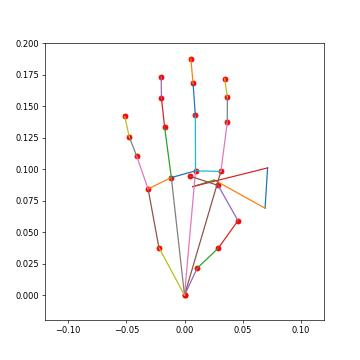
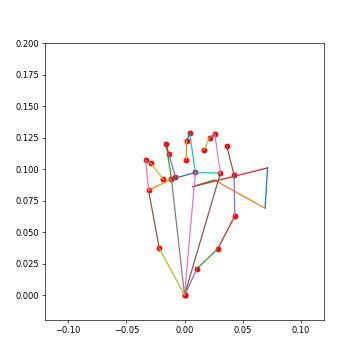
chore: 개발 및 테스트 유틸리티 추가
mock_quest.py: Meta Quest 없이 ZMQ keypoint 스트리밍 시뮬레이션
debug_pipeline.py: 전체 텔레오퍼레이션 파이프라인 단일 프로세스 디버그 스크립트
.gitignore: open_teach.egg-info 추가

diff --git a/debug_pipeline.py b/debug_pipeline.py
@@ -1,0 +1,223 @@
+"""
+파이프라인 디버그 스크립트 - teleop.py 없이 각 단계를 순서대로 검증.
+"""
+import sys
+import time
+import pickle
+import threading
+import numpy as np
+import zmq
+
+sys.path.insert(0, '/home/shimyoungchan/Open-Teach')
+
+HOST = '192.168.50.178'
+
+# ── 1단계: OculusVRHandDetector 흉내 ─────────────────────────────────────
+def run_detector(ctx, kp_token: bytes, stop_event: threading.Event):
+    """mock_quest 데이터를 받아서 파싱 후 재발행"""
+    from openteach.components.detector.oculus import OculusVRHandDetector
+    from openteach.utils.network import create_pull_socket, ZMQKeypointPublisher
+
+    pull_kp  = create_pull_socket(HOST, 8087)
+    pull_btn = create_pull_socket(HOST, 8095)
+    pull_rst = create_pull_socket(HOST, 8100)
+    pub_kp   = ZMQKeypointPublisher(HOST, 8088)
+    pub_btn  = ZMQKeypointPublisher(HOST, 8093)
+    pub_rst  = ZMQKeypointPublisher(HOST, 8102)
+
+    pull_kp.setsockopt(zmq.RCVTIMEO, 2000)
+    pull_btn.setsockopt(zmq.RCVTIMEO, 2000)
+    pull_rst.setsockopt(zmq.RCVTIMEO, 2000)
+
+    print('[detector] 시작 - mock_quest 대기 중...')
+    count = 0
+    while not stop_event.is_set():
+        try:
+            raw_kp  = pull_kp.recv()
+            raw_btn = pull_btn.recv()
+            raw_rst = pull_rst.recv()
+        except zmq.Again:
+            print('[detector] 타임아웃 - 데이터 없음')
+            continue
+
+        # 파싱
+        data = raw_kp.decode().strip()
+        kp_vals = [0]  # absolute
+        for vec_str in data.split(':')[1].strip().split('|'):
+            for v in vec_str.split(',')[:3]:
+                kp_vals.append(float(v))
+
+        pub_kp.pub_keypoints(kp_vals, 'right')
+        pub_btn.pub_keypoints(1, 'button')   # HIGH_RESOLUTION
+        pub_rst.pub_keypoints(1, 'pause')    # ARM_TELEOP_CONT
+
+        count += 1
+        if count % 60 == 1:
+            print(f'[detector] {count}번째 keypoint 발행')
+
+    print('[detector] 종료')
+
+
+# ── 2단계: TransformHandPositionCoords 흉내 ──────────────────────────────
+def run_transform(ctx, stop_event: threading.Event):
+    from openteach.components.detector.keypoint_transform import TransformHandPositionCoords
+    from openteach.utils.network import ZMQKeypointSubscriber, ZMQKeypointPublisher
+    from openteach.constants import OCULUS_NUM_KEYPOINTS, OCULUS_JOINTS, VR_FREQ
+    from openteach.utils.vectorops import normalize_vector
+
+    sub = ZMQKeypointSubscriber(HOST, 8088, 'right')
+    pub = ZMQKeypointPublisher(HOST, 8089)
+
+    print('[transform] 시작')
+    count = 0
+    while not stop_event.is_set():
+        data = sub.recv_keypoints()
+        if data is None:
+            continue
+        data_arr = np.asanyarray(data[1:]).reshape(OCULUS_NUM_KEYPOINTS, 3)
+
+        # 손목 기준 정규화
+        translated = data_arr - data_arr[0]
+        knuckle_pts = (OCULUS_JOINTS['knuckles'][0], OCULUS_JOINTS['knuckles'][-1])
+        idx_k = translated[knuckle_pts[0]]
+        pnk_k = translated[knuckle_pts[1]]
+
+        palm_normal    = normalize_vector(np.cross(idx_k, pnk_k))
+        palm_direction = normalize_vector(idx_k + pnk_k)
+        cross_product  = normalize_vector(np.cross(palm_direction, palm_normal))
+
+        frame = [cross_product, palm_direction, palm_normal]
+        R = np.linalg.solve(frame, np.eye(3)).T
+        transformed = (R @ translated.T).T
+
+        # 팔 방향 프레임
+        hand_dir = [
+            data_arr[0],
+            normalize_vector(idx_k - pnk_k),
+            palm_normal,
+            palm_direction,
+        ]
+
+        pub.pub_keypoints(transformed, 'transformed_hand_coords')
+        pub.pub_keypoints(hand_dir,    'transformed_hand_frame')
+
+        count += 1
+        if count % 60 == 1:
+            print(f'[transform] {count}번째 변환 발행. 손목 위치: {np.round(data_arr[0], 3)}')
+
+    print('[transform] 종료')
+
+
+# ── 3단계: RBArmOperator 핵심 로직만 ────────────────────────────────────
+def run_operator(ctx, stop_event: threading.Event):
+    from openteach.utils.network import ZMQKeypointSubscriber
+    from openteach.robot.rb_arm import RBArm
+    from scipy.spatial.transform import Rotation
+    from copy import deepcopy as copy
+
+    sub_frame = ZMQKeypointSubscriber(HOST, 8089, 'transformed_hand_frame')
+    sub_rst   = ZMQKeypointSubscriber(HOST, 8102, 'pause')
+
+    print('[operator] RBArm 연결 중...')
+    arm = RBArm(robot_ip='10.0.2.7')
+    print('[operator] 연결 OK')
+    robot_init_H = arm.get_pose()['position']
+    print(f'[operator] 초기 pose:\n{np.round(robot_init_H, 3)}')
+
+    is_first = True
+    hand_init_H = None
+
+    def get_frame():
+        for _ in range(10):
+            data = sub_frame.recv_keypoints(flags=zmq.NOBLOCK)
+            if data is not None:
+                return np.asanyarray(data).reshape(4, 3)
+        return None
+
+    def frame_to_homo(frame):
+        H = np.zeros((4, 4))
+        H[:3, :3] = np.transpose(frame[1:])
+        H[:3, 3]  = frame[0]
+        H[3, 3]   = 1
+        return H
+
+    def homo2cart(H):
+        t = H[:3, 3]
+        q = Rotation.from_matrix(H[:3, :3]).as_quat()
+        return np.concatenate([t, q])
+
+    H_A_R = np.array([
+        [1/np.sqrt(2),  1/np.sqrt(2), 0,  0],
+        [-1/np.sqrt(2), 1/np.sqrt(2), 0,  0],
+        [0,             0,            1, -0.06],
+        [0,             0,            0,  1],
+    ])
+
+    count = 0
+    while not stop_event.is_set():
+        # pause 상태 수신 (non-blocking으로 변경)
+        try:
+            rst_data = sub_rst.recv_keypoints(flags=zmq.NOBLOCK)
+            teleop_state = int(np.asanyarray(rst_data).reshape(1)[0]) if rst_data is not None else 1
+        except Exception:
+            teleop_state = 1  # 데이터 없으면 CONT로 간주
+
+        moving_frame = get_frame()
+        if moving_frame is None:
+            time.sleep(1/60)
+            continue
+
+        if is_first:
+            robot_init_H = arm.get_pose()['position']
+            hand_init_H  = frame_to_homo(moving_frame)
+            is_first = False
+            print('[operator] 기준점 설정 완료')
+            continue
+
+        H_HT_HH = frame_to_homo(moving_frame)
+        H_HT_HI = np.linalg.pinv(hand_init_H) @ H_HT_HH
+        H_RT_RH = robot_init_H @ H_A_R @ H_HT_HI @ np.linalg.pinv(H_A_R)
+
+        cart = homo2cart(H_RT_RH)
+        arm.arm_control(cart)
+
+        count += 1
+        if count % 60 == 1:
+            _, tcp = arm._robot.get_tcp_info(arm._rc)
+            print(f'[operator] {count}번째 servo 명령. TCP: {np.round(tcp[:3], 1)}')
+
+    print('[operator] 종료')
+
+
+if __name__ == '__main__':
+    stop = threading.Event()
+    ctx  = zmq.Context()
+
+    threads = [
+        threading.Thread(target=run_detector,  args=(ctx, None, stop), daemon=True),
+        threading.Thread(target=run_transform, args=(ctx, stop),        daemon=True),
+        threading.Thread(target=run_operator,  args=(ctx, stop),        daemon=True),
+    ]
+
+    for t in threads:
+        t.start()
+
+    print('\nmock_quest를 다른 터미널에서 실행하거나 자동 시작...')
+    time.sleep(1)
+
+    # mock_quest 내장 실행
+    import subprocess
+    mq = subprocess.Popen(
+        ['conda', 'run', '-n', 'rbpodo', 'python', 'mock_quest.py',
+         '--move', '--host', HOST],
+        cwd='/home/shimyoungchan/Open-Teach'
+    )
+
+    try:
+        time.sleep(15)
+    except KeyboardInterrupt:
+        pass
+    finally:
+        stop.set()
+        mq.terminate()
+        print('\n=== 종료 ===')

diff --git a/mock_quest.py b/mock_quest.py
@@ -1,0 +1,109 @@
+"""
+Mock Quest 스크립트 — Meta Quest APK 없이 ZMQ keypoint 스트리밍을 시뮬레이션.
+
+사용법:
+    python mock_quest.py              # 정적 손 자세 (기본)
+    python mock_quest.py --move       # 손목 위치를 천천히 이동시켜 팔 이동 테스트
+"""
+
+import argparse
+import time
+import zmq
+import numpy as np
+
+# configs/network.yaml 기본값과 맞춰야 함
+HOST = "localhost"
+KEYPOINT_PORT = 8087       # oculus_reciever_port
+BUTTON_PORT = 8095         # resolution_button_port
+RESET_PORT = 8100          # teleop_reset_port
+
+VR_FREQ = 60
+DT = 1.0 / VR_FREQ
+
+# ── 기본 손 자세 (24 keypoints, 단위: m) ─────────────────────────────────
+# 인덱스 0 = 손목, 이후 각 손가락 관절
+def make_hand_keypoints(wrist_offset=np.zeros(3)):
+    kps = np.zeros((24, 3))
+
+    # 손목
+    kps[0] = [0.0, 0.0, 0.0]
+
+    # metacarpals (2,6,9,12,15)
+    kps[2]  = [0.02, 0.01, 0.0]   # 엄지
+    kps[6]  = [0.01, 0.08, 0.0]   # 검지
+    kps[9]  = [0.0,  0.09, 0.0]   # 중지
+    kps[12] = [-0.01, 0.08, 0.0]  # 약지
+    kps[15] = [-0.02, 0.07, 0.0]  # 새끼
+
+    # knuckles (6,9,12,16)
+    kps[16] = [-0.015, 0.075, 0.0]
+
+    # 나머지 관절은 metacarpal 위치에서 약간 오프셋
+    for i in range(24):
+        if np.all(kps[i] == 0) and i != 0:
+            kps[i] = kps[max(0, i-1)] + np.array([0.0, 0.01, 0.0])
+
+    kps += wrist_offset
+    return kps
+
+
+def keypoints_to_token(kps: np.ndarray) -> bytes:
+    """numpy (24,3) → Quest APK 포맷 바이트 문자열"""
+    parts = "|".join(f"{x:.6f},{y:.6f},{z:.6f}" for x, y, z in kps)
+    return f"absolute:{parts}".encode()
+
+
+def main():
+    parser = argparse.ArgumentParser()
+    parser.add_argument("--move", action="store_true",
+                        help="손목 위치를 서서히 이동시켜 arm retargeting 테스트")
+    parser.add_argument("--host", default=HOST)
+    args = parser.parse_args()
+
+    ctx = zmq.Context()
+
+    kp_sock = ctx.socket(zmq.PUSH)
+    kp_sock.connect(f"tcp://{args.host}:{KEYPOINT_PORT}")
+
+    btn_sock = ctx.socket(zmq.PUSH)
+    btn_sock.connect(f"tcp://{args.host}:{BUTTON_PORT}")
+
+    reset_sock = ctx.socket(zmq.PUSH)
+    reset_sock.connect(f"tcp://{args.host}:{RESET_PORT}")
+
+    print(f"[mock_quest] 연결: {args.host}")
+    print(f"  keypoint → :{KEYPOINT_PORT}")
+    print(f"  button   → :{BUTTON_PORT}")
+    print(f"  reset    → :{RESET_PORT}")
+    print("Ctrl+C로 종료\n")
+
+    t = 0.0
+    try:
+        while True:
+            if args.move:
+                # 손목을 앞뒤로 5cm 진동 (arm 이동 테스트용)
+                offset = np.array([0.05 * np.sin(2 * np.pi * 0.2 * t), 0.0, 0.0])
+            else:
+                offset = np.zeros(3)
+
+            kps = make_hand_keypoints(wrist_offset=offset)
+            token = keypoints_to_token(kps)
+
+            kp_sock.send(token)
+            btn_sock.send(b'High')    # High resolution
+            reset_sock.send(b'High')  # CONT (텔레오퍼레이션 활성)
+
+            t += DT
+            time.sleep(DT)
+
+    except KeyboardInterrupt:
+        print("\n[mock_quest] 종료")
+    finally:
+        kp_sock.close()
+        btn_sock.close()
+        reset_sock.close()
+        ctx.term()
+
+
+if __name__ == "__main__":
+    main()